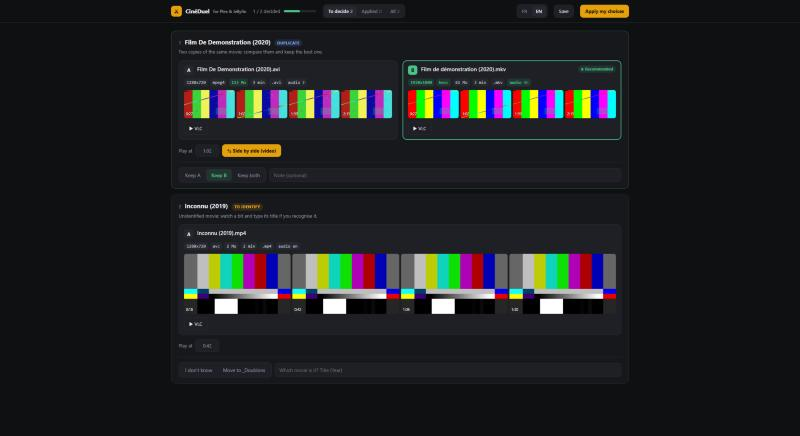
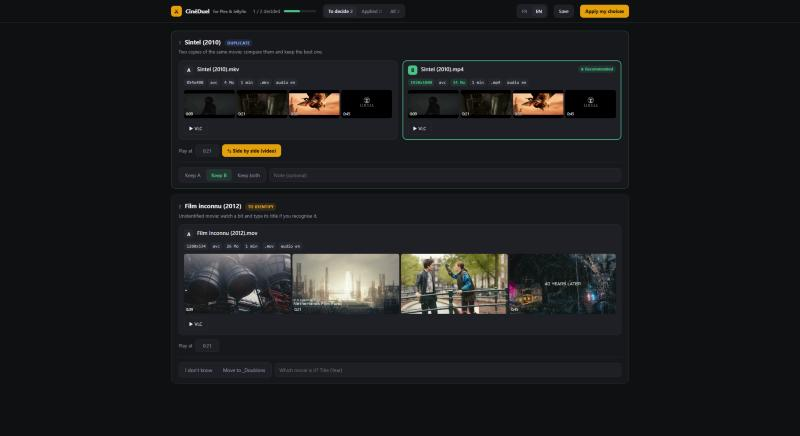
Screenshots from open movies, viewer layout fix, capture cache fix
- README screenshots now use Sintel and Tears of Steel (Blender Foundation, CC BY 3.0), with credits
- New full-screen viewer screenshot
- Fix: the label above each image took half the height in the full-screen viewer
- Fix: capture URLs carry a version stamp so the browser never shows images from another library

Changed region(s): [[0.2188, 0.4472, 0.7812, 0.7454], [0.2188, 0.1491, 0.7812, 0.2982], [0.2188, 0.0894, 0.375, 0.1193]]

diff --git a/cineduel.py b/cineduel.py
@@ -140,6 +140,18 @@ def capture(c, k, n):
     return f if os.path.exists(f) else None
 
 
+def version(c):
+    """Empreinte des fichiers du cas : change si un fichier change, pour que le navigateur ne réutilise pas d'anciennes captures."""
+    h = hashlib.md5()
+    for k in ('a', 'b'):
+        if c.get(k):
+            try:
+                h.update(f"{c[k]}|{os.path.getmtime(video(c[k]))}".encode())
+            except OSError:
+                h.update(c[k].encode())
+    return h.hexdigest()[:10]
+
+
 def precapturer():
     for c in CAS:
         for n in range(len(MOMENTS)):
@@ -343,8 +355,8 @@ main{max-width:1320px;margin:0 auto;padding:22px 28px 90px}
 .vide{text-align:center;color:var(--m);padding:80px 20px;font-size:16px}.vide b{display:block;font-size:40px;margin-bottom:8px}
 #lb{position:fixed;inset:0;z-index:10;background:#000;display:none;flex-direction:column}#lb.on{display:flex}
 #lb .vue{flex:1;display:flex;gap:4px;min-height:0}
-#lb .vue div{flex:1;display:flex;flex-direction:column;min-width:0}#lb .vue img{flex:1;min-height:0;width:100%;object-fit:contain}
-#lb .lt{font-size:13px;color:#ddd;padding:7px 12px;background:#111;white-space:nowrap;overflow:hidden;text-overflow:ellipsis}
+#lb .vue>div{flex:1;display:flex;flex-direction:column;min-width:0}#lb .vue img{flex:1;min-height:0;width:100%;object-fit:contain}
+#lb .lt{flex:none;font-size:13px;color:#ddd;padding:7px 12px;background:#111;white-space:nowrap;overflow:hidden;text-overflow:ellipsis}
 #lb .bas{display:flex;gap:10px;align-items:center;padding:10px 16px;background:#111;color:#bbb;font-size:13px;flex-wrap:wrap}
 #lb kbd{border:1px solid #444;border-radius:4px;padding:0 5px;font-size:12px;color:#ddd}
 @media (max-width:900px){.cols{grid-template-columns:1fr}.hd{padding:10px 16px}main{padding:16px}}
@@ -384,7 +396,7 @@ const $=s=>document.querySelector(s);
 const post=(u,d)=>fetch(u,{method:'POST',headers:{'Content-Type':'application/json'},body:JSON.stringify(d)}).then(r=>r.json());
 const mmss=s=>`${Math.floor(s/60)}:${String(s%60).padStart(2,'0')}`;
 const hms=s=>{const [m,x]=String(s).split(':');return x===undefined?+m*60:(+m)*60+(+x)};
-const src=(n,k,i)=>`/img?c=${CAS[n].id}&k=${k}&n=${i}`;
+const src=(n,k,i)=>`/img?c=${CAS[n].id}&k=${k}&n=${i}&v=${CAS[n].v||''}`;
 const ch=c=>CHOIX[c.id]||{};
 const decide=c=>{const h=ch(c);return !!(h.applique||h.choix||(!c.b&&h.note))};
 // recommandation : mêmes pistes audio -> résolution puis taille corrigée du codec ; sinon format récent, audio FR, .mkv, résolution, taille
@@ -465,7 +477,7 @@ class H(BaseHTTPRequestHandler):
         if self.path == '/api/cas':
             for k in [k for k in INFOS if not os.path.exists(k)]:   # fichiers déplacés par « Appliquer »
                 del INFOS[k]
-            return self.envoyer(json.dumps([dict(c, ia=info(c['a']), ib=info(c['b']) if c.get('b') else None, ts=instants(c))
+            return self.envoyer(json.dumps([dict(c, ia=info(c['a']), ib=info(c['b']) if c.get('b') else None, ts=instants(c), v=version(c))
                                             for c in CAS]))
         if self.path == '/api/choix':
             return self.envoyer(json.dumps(lire_choix()))

diff --git a/README.fr.md b/README.fr.md
@@ -18,6 +18,8 @@ Tu as plusieurs copies du même film ? Cette petite page t'aide à **choisir la 
   - `Espace` : passer de A à B (le plus parlant pour voir la netteté)
   - `S` : les deux côte à côte
   - `Échap` : fermer
+
+  ![La visionneuse plein écran : A et B au même instant](docs/plein-ecran.jpg)
 - ▶ **Ouvre chaque copie dans VLC** au moment que tu veux.
 - ⇆ **Côte à côte vidéo** : les deux films dans une seule fenêtre, synchronisés.
 - ✅ **Bouton « Appliquer mes choix »** : la copie que tu ne gardes pas va dans un dossier `_Doublons`. **Rien n'est jamais supprimé** : tu vides `_Doublons` toi-même quand tu veux.
@@ -136,6 +138,10 @@ Laisse `note` vide pour afficher l'explication intégrée dans la langue choisie
 | `trouver_doublons.py` | cherche les doublons et prépare la liste |
 | `resolution.py`, `langues.py`, `duree.py`, `codec.py` | lisent les infos des vidéos si `ffprobe` est absent |
 | `CineDuel.bat` | le lanceur à double-cliquer |
+
+## Crédits
+
+Les captures d'écran utilisent des extraits de *Sintel* (2010) et *Tears of Steel* (2012), films libres de la Blender Foundation, sous licence [CC BY 3.0](https://creativecommons.org/licenses/by/3.0/deed.fr) – © Blender Foundation | [durian.blender.org](https://durian.blender.org) | [mango.blender.org](https://mango.blender.org).
 
 ## Licence
 

diff --git a/README.md b/README.md
@@ -18,6 +18,8 @@ Got several copies of the same movie? This little page helps you **pick the best
   - `Space`: switch between A and B (the best way to judge sharpness)
   - `S`: both side by side
   - `Esc`: close
+
+  ![Full-screen viewer: A and B at the same moment](docs/plein-ecran.jpg)
 - ▶ **Opens each copy in VLC** at the moment you choose.
 - ⇆ **Side-by-side video**: both movies in one window, in sync.
 - ✅ **"Apply my choices" button**: the copy you don't keep is moved to a `_Doublons` folder. **Nothing is ever deleted**: you empty `_Doublons` yourself, whenever you want.
@@ -136,6 +138,10 @@ Leave `note` empty to get the built-in explanation in the chosen language, or wr
 | `trouver_doublons.py` | finds duplicates and prepares the list |
 | `resolution.py`, `langues.py`, `duree.py`, `codec.py` | read video details when `ffprobe` is missing |
 | `CineDuel.bat` | the double-click launcher |
+
+## Credits
+
+The screenshots use excerpts from *Sintel* (2010) and *Tears of Steel* (2012), open movies by the Blender Foundation, licensed under [CC BY 3.0](https://creativecommons.org/licenses/by/3.0/) – © Blender Foundation | [durian.blender.org](https://durian.blender.org) | [mango.blender.org](https://mango.blender.org).
 
 ## License
 
